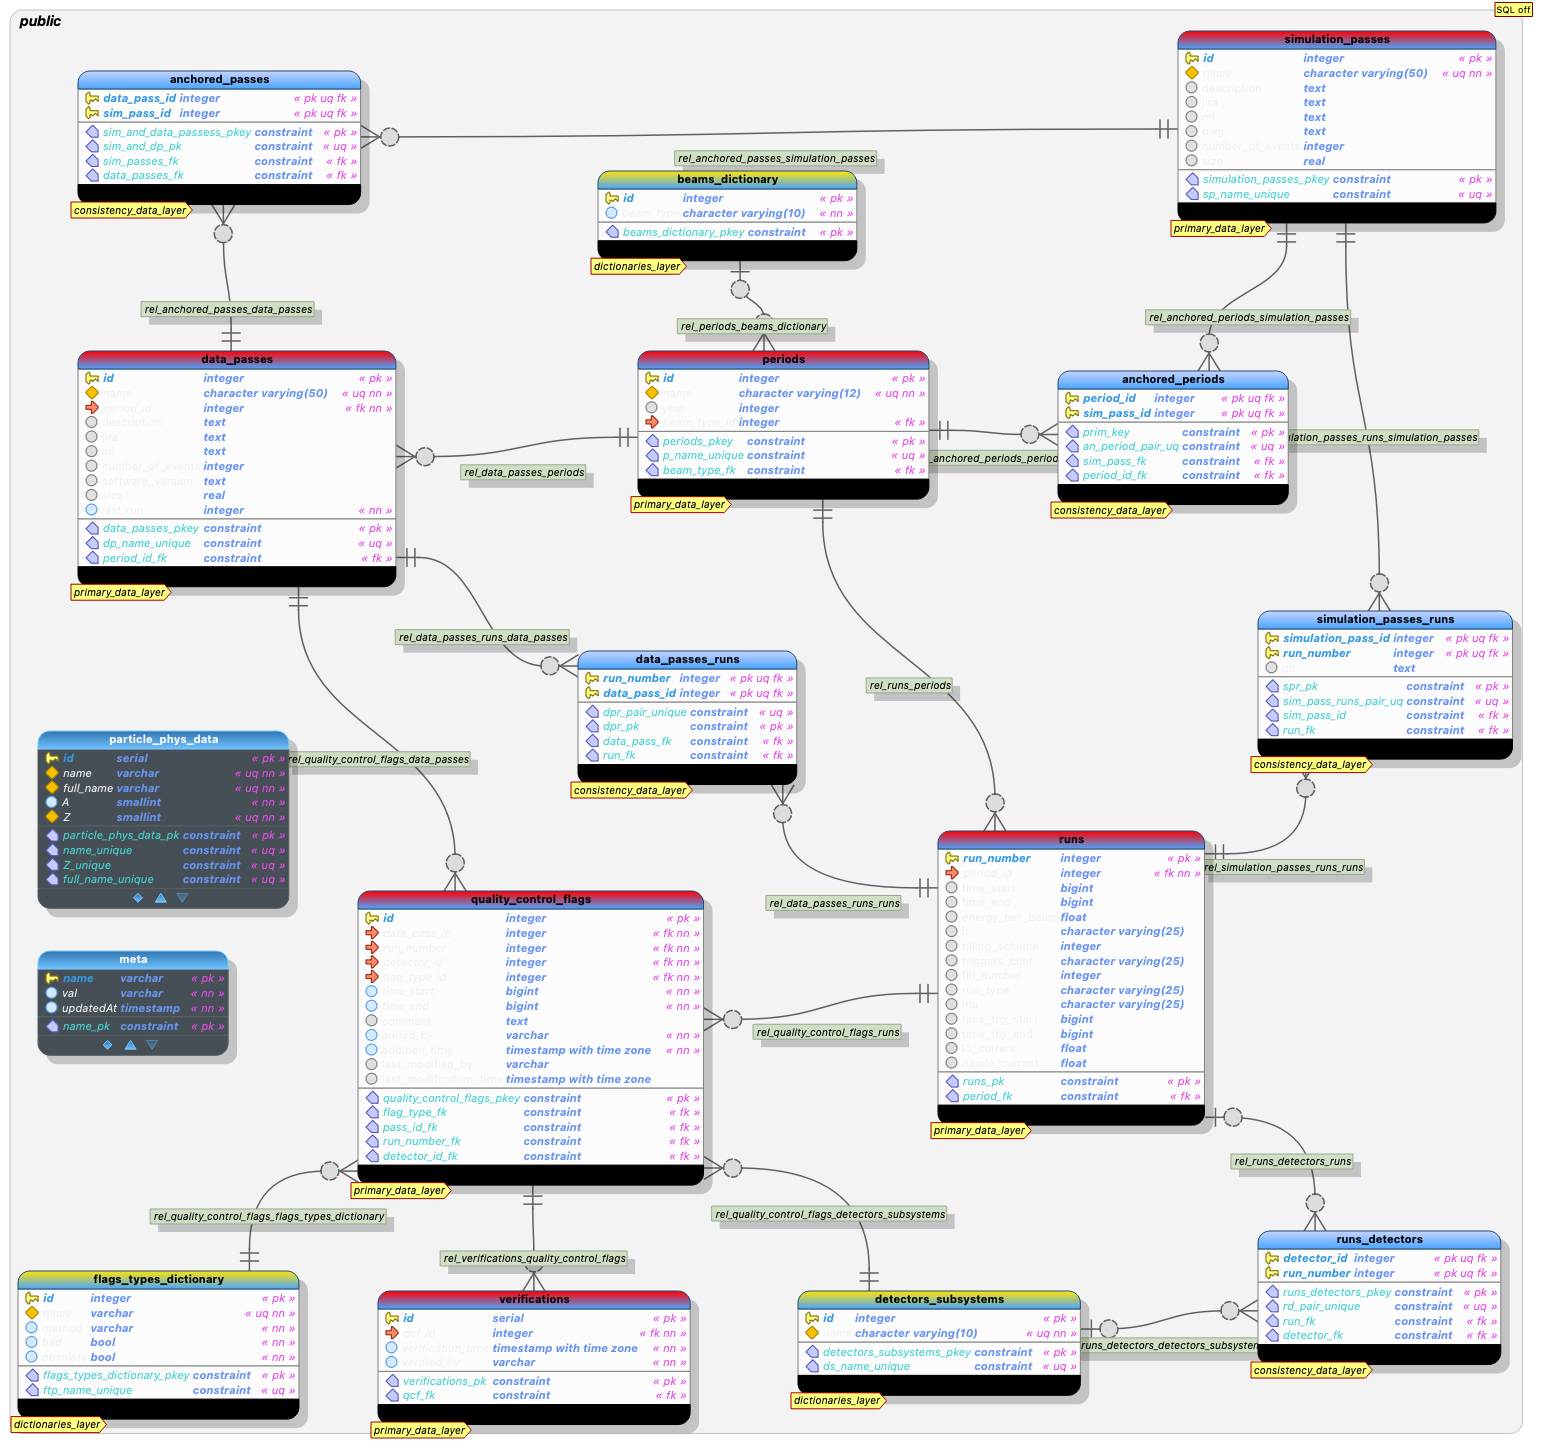
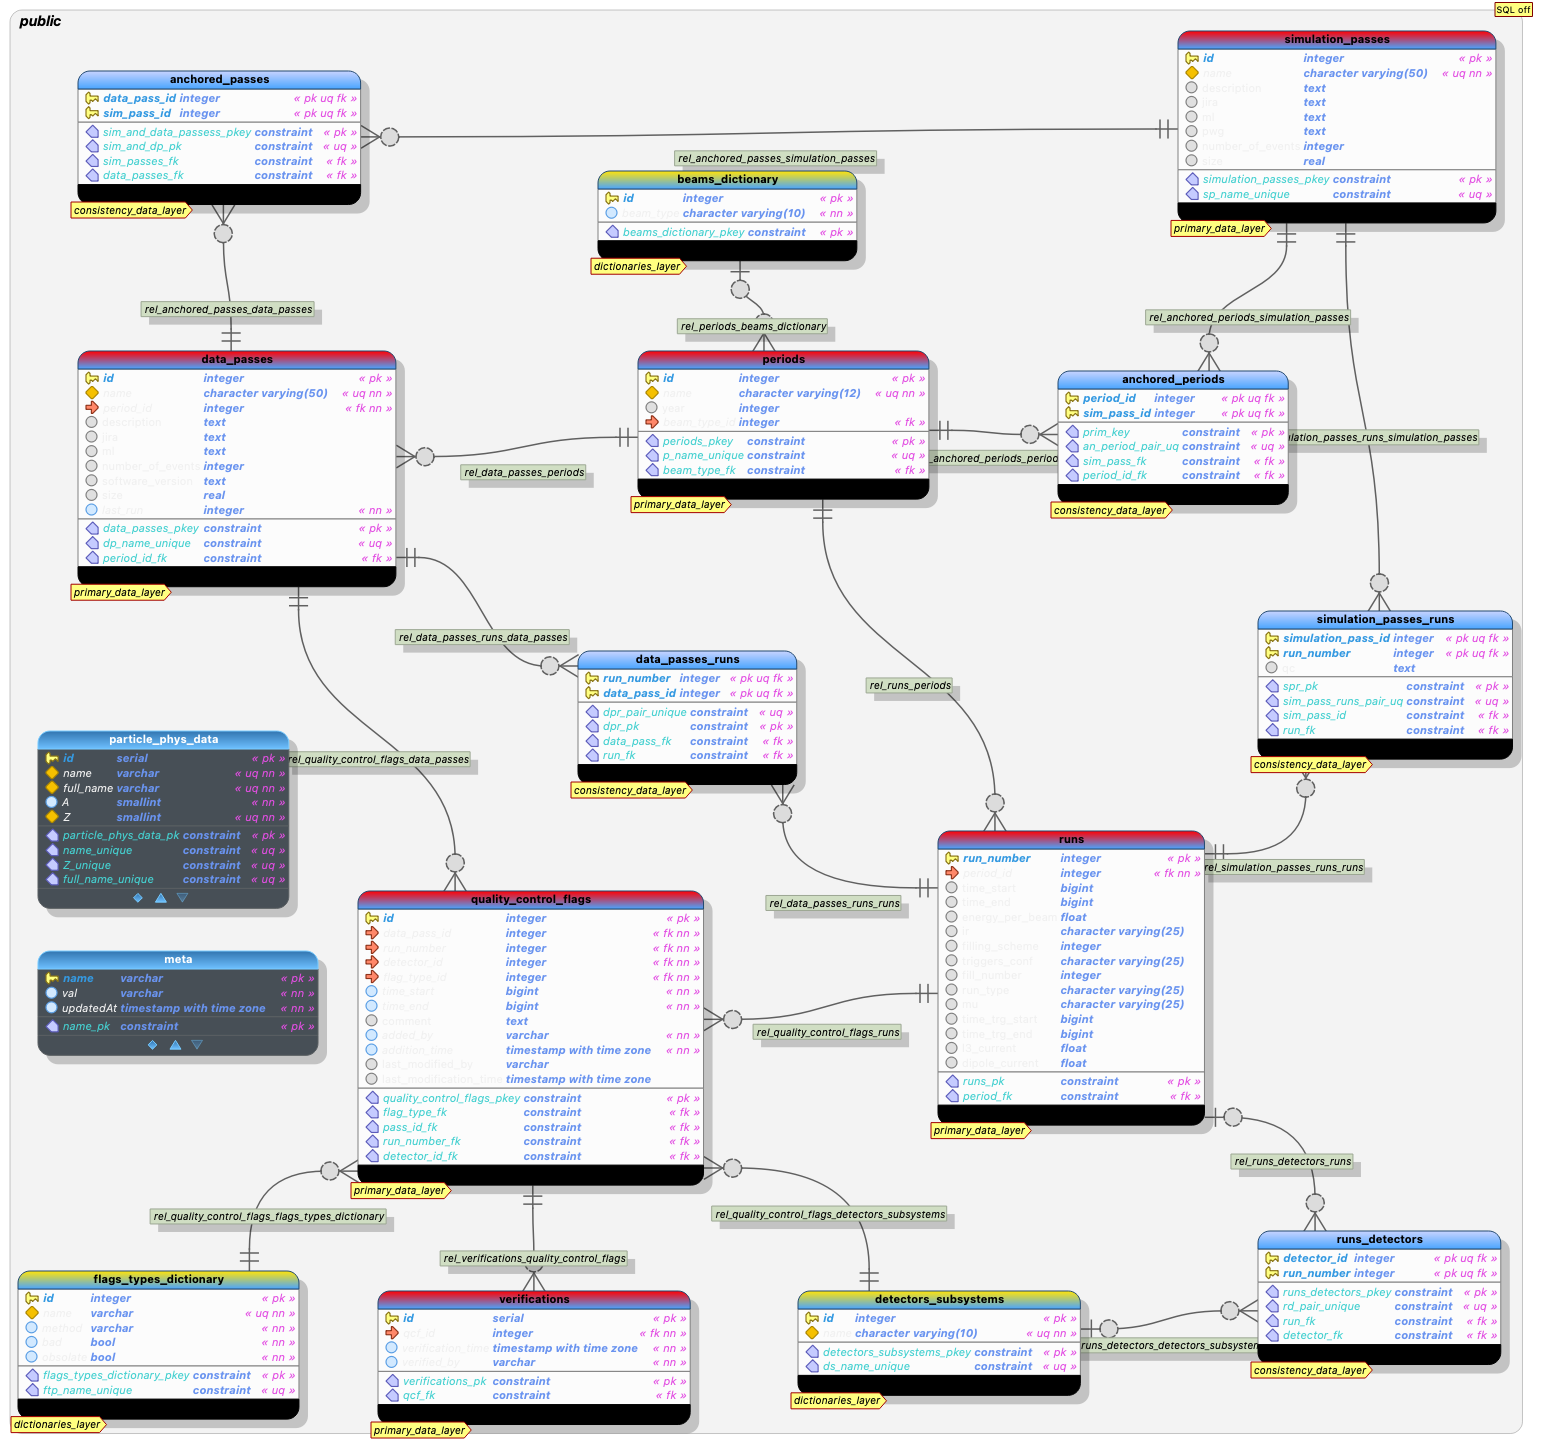
added checks for last update

Changed region(s): [[0.1244, 0.6517, 0.2176, 0.7448]]

diff --git a/app/config/rct-data/healthcheckQueries.js b/app/config/rct-data/healthcheckQueries.js
@@ -16,30 +16,53 @@ const detectors = require('./detectors.js').sort();
 const flags = require('./flags.json');
 const physicalParticlesData = require('./physicalParticlesData.js');
 
-const healthcheckQueries = {
-    insert: {
-        detectors: {
-            description: 'Detectors dict insert',
-            query: detectors.map((d) => `INSERT INTO detectors_subsystems("id", "name") VALUES (DEFAULT, '${d}');`),
-        },
-        particle: {
-            description: 'Particles dict insert',
-            query: Object.entries(physicalParticlesData).map(([name, d]) => `INSERT INTO particle_phys_data("id", "name", "full_name", "A", "Z")
-                VALUES (DEFAULT, '${name}', '${d.full_name}', ${d.A}, ${d.Z});`),
-        },
-        flags: {
-            description: 'Flags types dict insert',
-            query: flags.map((f) => `INSERT INTO flags_types_dictionary("id", "name", "method", "bad", "obsolate")
-                VALUES (${f.id}, '${f.name}', '${f.method}', ${f.bad}::bool, ${f.obsolete}::bool);`),
-        },
+const checkStaticData = {
+    detectors: {
+        description: 'Detectors dict insert',
+        query: detectors.map((d) => `INSERT INTO detectors_subsystems("id", "name") VALUES (DEFAULT, '${d}');`),
     },
+    particle: {
+        description: 'Particles dict insert',
+        query: Object.entries(physicalParticlesData).map(([name, d]) => `INSERT INTO particle_phys_data("id", "name", "full_name", "A", "Z")
+            VALUES (DEFAULT, '${name}', '${d.full_name}', ${d.A}, ${d.Z});`),
+    },
+    flags: {
+        description: 'Flags types dict insert',
+        query: flags.map((f) => `INSERT INTO flags_types_dictionary("id", "name", "method", "bad", "obsolate")
+            VALUES (${f.id}, '${f.name}', '${f.method}', ${f.bad}::bool, ${f.obsolete}::bool);`),
+    },
+};
 
-    read: {
-        lastUpdate: {
-            description: 'Check time of last update',
-            query: 'SELECT val'
-        }
-    }
+const metaObj = {
+    lastSync: {
+        name: 'last_sync',
+    },
+};
+
+const queryForName = (name) => `SELECT val FROM meta WHERE name = '${name}'`;
+const updateForName = (name, val) => `INSERT INTO meta (name, val, "updatedAt") values (${name}, ${val}, now()) 
+                                        ON conflict (name) do update set val = EXCLUDED.val, "updatedAt" = now();`;
+
+const meta = {
+    objects: metaObj,
+
+    readLastSync: {
+        description: 'Check time of last update',
+        query: queryForName(metaObj.lastSync.name),
+    },
+    startLastSync: {
+        description: 'Store info in DB that sync is in progress',
+        query: updateForName(metaObj.lastSync.name, 'in_progress'),
+    },
+    doneLastSync: {
+        description: 'Store info in DB that sync is done',
+        query: updateForName(metaObj.lastSync.name, 'done'),
+    },
+};
+
+const healthcheckQueries = {
+    checkStaticData,
+    meta,
 };
 
 const suppressHealthcheckLogs = (process.env['RCT_SUPRESS_HEALTHCECK_LOGS']?.toLowerCase() || 'true') == 'true';

diff --git a/app/lib/database/DatabaseService.js b/app/lib/database/DatabaseService.js
@@ -216,7 +216,7 @@ class DatabaseService {
     }
 
     async healthcheckInsertData() {
-        for (const [d, def] of Object.entries(config.rctData.healthcheckQueries.insert)) {
+        for (const [d, def] of Object.entries(config.rctData.healthcheckQueries.checkStaticData)) {
             this.logger.info(`healthcheck : ${def.description}`);
             for (const q of def.query) {
                 const logger = config.rctData.suppressHealthcheckLogs ? null : (e) => this.logger.error(e.stack)
